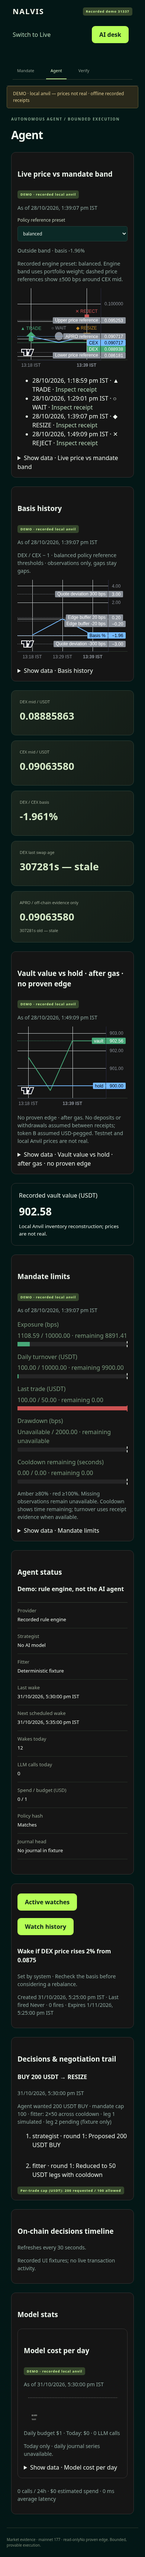
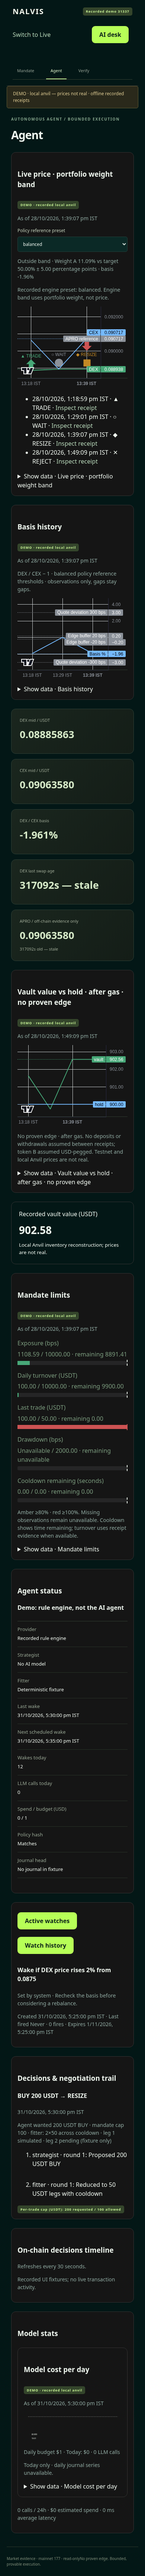
fix(charts): remove price bands derived from portfolio weight

Changed region(s): [[0.0923, 0.0311, 0.8615, 0.9649]]

diff --git a/apps/dashboard/test/charts.test.tsx b/apps/dashboard/test/charts.test.tsx
@@ -1,5 +1,5 @@
 import { beforeEach, afterEach, describe, expect, it, vi } from 'vitest';
-import { render, screen, waitFor } from '@testing-library/react';
+import { fireEvent, render, screen, waitFor } from '@testing-library/react';
 import PriceChart from '../src/components/charts/PriceChart.js';
 import BasisChart from '../src/components/charts/BasisChart.js';
 import VaultChart from '../src/components/charts/VaultChart.js';
@@ -8,12 +8,15 @@ import { LimitChart } from '../src/components/charts/LimitChart.js';
 import { CostChart } from '../src/components/charts/CostChart.js';
 import { demoEvidence, demoContext } from '../src/lib/demo.js';
 import { sources } from '../src/lib/chart-data.js';
+import { units } from '../../../packages/core/src/policy.js';
 import type { AgentFeed } from '../src/agent/feed-types.js';
 const api = vi.hoisted(() => ({
   setData: vi.fn(),
   update: vi.fn(),
   setMarkers: vi.fn(),
-  createPriceLine: vi.fn(() => ({})),
+  createPriceLine: vi.fn<(line: { title: string; price: number }) => object>(
+    () => ({}),
+  ),
   removePriceLine: vi.fn(),
   remove: vi.fn(),
   applyOptions: vi.fn(),
@@ -91,25 +94,108 @@ describe('honest accessible charts', () => {
         expect.objectContaining({ time: first.now + 30 }),
       ),
     );
-    expect(api.createPriceLine.mock.calls.length).toBeGreaterThanOrEqual(2);
-    const scaleOptions = api.applyOptions.mock.calls.find(
-      ([options]) => options.autoscaleInfoProvider,
-    )?.[0];
-    const range = scaleOptions.autoscaleInfoProvider(() => ({
-      priceRange: { minValue: 0.09, maxValue: 0.091 },
-    })).priceRange;
-    const mid =
-      (first.cex[0].bid +
-        first.cex[0].ask +
-        first.cex[1].bid +
-        first.cex[1].ask) /
-      4;
-    expect(range.minValue).toBeLessThanOrEqual(mid * 0.95);
-    expect(range.maxValue).toBeGreaterThanOrEqual(mid * 1.05);
+    expect(
+      api.createPriceLine.mock.calls.every(
+        ([line]) => line.title === 'APRO reference',
+      ),
+    ).toBe(true);
+    expect(api.createPriceLine).toHaveBeenCalledWith(
+      expect.objectContaining({
+        price: first.apro!.price,
+        title: 'APRO reference',
+      }),
+    );
 
     view.unmount();
     expect(api.remove).toHaveBeenCalledOnce();
   });
+  it.each([true, false])(
+    'uses weight-band text and never draws price bands (APRO present: %s)',
+    async (aproPresent) => {
+      const c = await demoContext();
+      const first = demoEvidence.find((e) => e.dexMid && e.cex.length === 2)!;
+      const point = {
+        ...first,
+        apro: aproPresent ? first.apro : undefined,
+        vault: {
+          balanceA: 0n,
+          balanceB: 100n,
+          decimalsA: first.decimalsA,
+          decimalsB: first.decimalsB,
+          mandate: c.mandate,
+        },
+      };
+      const view = render(<PriceChart points={[point]} demo />);
+      await waitFor(() => expect(api.setData).toHaveBeenCalled());
+      expect(
+        screen.getByText(
+          /Outside band · Weight A 0.00% vs target 50.00% ± 5.00 percentage points/,
+        ),
+      ).toBeTruthy();
+      expect(screen.getByRole('img').getAttribute('aria-label')).toContain(
+        'Weight A 0.00% vs target 50.00% ± 5.00 percentage points',
+      );
+      expect(
+        screen.getAllByRole('columnheader').map((h) => h.textContent),
+      ).toEqual(['Time (IST)', 'DEX / USDT', 'CEX / USDT', 'Basis %']);
+      fireEvent.change(screen.getByLabelText('Policy reference preset'), {
+        target: { value: 'conservative' },
+      });
+      expect(
+        screen.getByText(
+          /Outside band · Weight A 0.00% vs target 40.00% ± 7.50 percentage points/,
+        ),
+      ).toBeTruthy();
+      fireEvent.change(screen.getByLabelText('Policy reference preset'), {
+        target: { value: 'balanced' },
+      });
+      view.rerender(
+        <PriceChart
+          points={[
+            {
+              ...point,
+              vault: {
+                ...point.vault,
+                balanceA: 10n ** BigInt(first.decimalsA),
+                balanceB: units(first.dexMid!, first.decimalsB),
+              },
+            },
+          ]}
+          demo
+        />,
+      );
+      expect(
+        screen.getByText(
+          /Inside band · Weight A 50.00% vs target 50.00% ± 5.00 percentage points/,
+        ),
+      ).toBeTruthy();
+      view.rerender(
+        <PriceChart
+          points={[
+            { ...point, vault: { ...point.vault, balanceA: 0n, balanceB: 0n } },
+          ]}
+          demo
+        />,
+      );
+      expect(
+        screen.getByText(
+          /Engine band state unavailable · Weight A unavailable/,
+        ),
+      ).toBeTruthy();
+      if (aproPresent)
+        expect(
+          api.createPriceLine.mock.calls.every(
+            ([line]) => line.title === 'APRO reference',
+          ),
+        ).toBe(true);
+      else expect(api.createPriceLine).not.toHaveBeenCalled();
+      expect(
+        screen.queryByText(
+          /Lower price reference|Upper price reference|around CEX mid/,
+        ),
+      ).toBeNull();
+    },
+  );
   it('preserves a missing interval when observations arrive after the recorded seed', () => {
     const view = render(
       <TimeSeries

diff --git a/apps/dashboard/src/components/charts/PriceChart.tsx b/apps/dashboard/src/components/charts/PriceChart.tsx
@@ -84,30 +84,19 @@ export default function PriceChart({
         ? 'Inside band'
         : 'Outside band';
   const markers = decisionMarkers(actions);
-  const lines = latest
-    ? [
-        {
-          value: latest.cex * (1 - preset.bandBps / 10000),
-          title: 'Lower price reference',
-        },
-        {
-          value: latest.cex * (1 + preset.bandBps / 10000),
-          title: 'Upper price reference',
-        },
-        ...(evidence?.apro
-          ? [{ value: evidence.apro.price, title: 'APRO reference' }]
-          : []),
-      ]
+  const lines = evidence?.apro
+    ? [{ value: evidence.apro.price, title: 'APRO reference' }]
     : [];
+  const weightBand = `Weight A ${weight === undefined ? 'unavailable' : `${(weight / 100).toFixed(2)}%`} vs target ${(preset.targetWeightA * 100).toFixed(2)}% ± ${(preset.bandBps / 100).toFixed(2)} percentage points`;
   const prices = rows.flatMap((r) => [r.dex, r.cex]);
   return (
     <ChartFrame
-      title="Live price vs mandate band"
+      title="Live price · portfolio weight band"
       source={
         demo ? sources.demo : live.length ? sources.market : sources.recorded
       }
       at={latest?.time}
-      summary={`DEX ${latest?.dex ?? 'unavailable'}, CEX ${latest?.cex ?? 'unavailable'} USDT. Min ${prices.length ? Math.min(...prices) : 'unavailable'}, max ${prices.length ? Math.max(...prices) : 'unavailable'}. ${state}. Basis ${latest?.basis.toFixed(2)}%.`}
+      summary={`DEX ${latest?.dex ?? 'unavailable'}, CEX ${latest?.cex ?? 'unavailable'} USDT. Min ${prices.length ? Math.min(...prices) : 'unavailable'}, max ${prices.length ? Math.max(...prices) : 'unavailable'}. ${state}. ${weightBand}. Basis ${latest?.basis.toFixed(2)}%.`}
       headers={['Time (IST)', 'DEX / USDT', 'CEX / USDT', 'Basis %']}
       rows={rows.map((r) => [displayTime(r.time), r.dex, r.cex, r.basis])}
     >
@@ -133,14 +122,13 @@ export default function PriceChart({
         </select>
       </label>
       <p>
-        {state} · basis {latest?.basis.toFixed(2) ?? '—'}%
+        {state} · {weightBand} · basis {latest?.basis.toFixed(2) ?? '—'}%
       </p>
       <p className="muted">
         {recordedState?.success
           ? `Recorded engine preset: ${recordedState.data.state.preset}.`
           : 'Active keeper preset unavailable.'}{' '}
-        Engine band uses portfolio weight; dashed price references show ±
-        {preset.bandBps} bps around CEX mid.
+        Engine band uses portfolio weight, not price.
       </p>
       <Suspense fallback={<p>Loading price chart…</p>}>
         <TimeSeries

diff --git a/docs/T13A-VALIDATION.md b/docs/T13A-VALIDATION.md
@@ -2,13 +2,17 @@
 
 Base: `8c4632f` (`main`, T12B merged; T13 was not merged when this branch started).
 
+## PR #14 review fix
+
+Removed the misleading CEX mid ± `bandBps` price lines from C1. The engine weight rule is unchanged. Updated regression tests, the accessible summary, chart/data-table title, and the four agent screenshots (live/demo at 1440 px and 390 px). Other charts are unchanged.
+
 ## Checks
 
 - `pnpm lint`: PASS (workspace ESLint and root TypeScript project check).
 - `pnpm -r build`: PASS.
-- `pnpm test`: PASS: 414 tests; four pre-existing integration skips (no anvil/fork setup).
-- New dashboard chart tests: 14 passing; keeper feed projection: one passing.
-- Existing test files and expectations are unchanged. No snapshot/class updates.
+- `pnpm test`: PASS: 416 tests; four pre-existing integration skips (no anvil/fork setup).
+- New dashboard chart tests: 16 passing; keeper feed projection: one passing.
+- Original pre-chart test files and expectations remain unchanged; C1 chart regressions were updated for this review fix. No snapshot/class updates.
 - `forge test`: not run; forge/anvil binaries are unavailable. Contracts were not changed.
 - Charts use public reads and recorded fixtures. No application API keys, signing, transactions, or mainnet writes.
 
@@ -16,8 +20,8 @@ Base: `8c4632f` (`main`, T12B merged; T13 was not merged when this branch starte
 
 | Measurement | Before | After | Increase | Limit |
 | --- | ---: | ---: | ---: | ---: |
-| Initial landing entry and its modulepreloads | 415.79 | 423.29 | 7.50 | 15.00 |
-| All JavaScript chunks | 434.98 | 492.95 | 57.97 | 60.00 |
+| Initial landing entry and its modulepreloads | 415.79 | 423.28 | 7.49 | 15.00 |
+| All JavaScript chunks | 434.98 | 492.92 | 57.94 | 60.00 |
 
 The canvas library remains a React.lazy chunk. Shared chart views reduce duplicate chunk overhead. The frozen mainnet history is one validated, cached same-origin JSON asset, not JavaScript; its additional gzip size is 16.26 kB and is excluded from the JavaScript figures above. No new market-data host is used.
 
@@ -58,26 +62,26 @@ dist/receipts/demo/31337/2-0xccbf1e23e1a1568ee2feec8086705fe7252d50f38c411deb5a9
 dist/receipts/31337/0-0xc139451c312735428d725ce3c513c6b0aafaff870e152406968a8cd316d9fca9.json         5.41 kB │ gzip:   1.67 kB
 dist/assets/market_history-fH4T4A_u.json                                                             90.34 kB │ gzip:  16.35 kB
 dist/assets/index-CzPeZXa7.css                                                                       39.88 kB │ gzip:   9.70 kB
-dist/assets/LandingPreview-CjsCqhs2.js                                                                2.71 kB │ gzip:   1.10 kB
-dist/assets/Receipts-BAIGwKTJ.js                                                                      3.70 kB │ gzip:   1.47 kB
-dist/assets/Mandate-DLnDhPG4.js                                                                       4.58 kB │ gzip:   1.99 kB
-dist/assets/Desk-R1_OPuu7.js                                                                          6.40 kB │ gzip:   2.81 kB
-dist/assets/Console-lR1R79Zk.js                                                                       9.09 kB │ gzip:   3.03 kB
+dist/assets/LandingPreview-B2vGFkYz.js                                                                2.71 kB │ gzip:   1.09 kB
+dist/assets/Receipts-CF5jLw8Y.js                                                                      3.70 kB │ gzip:   1.47 kB
+dist/assets/Mandate-C1yhOOxr.js                                                                       4.58 kB │ gzip:   1.99 kB
+dist/assets/Desk-VEkKYUq5.js                                                                          6.40 kB │ gzip:   2.81 kB
+dist/assets/Console-BkiBXCXB.js                                                                       9.09 kB │ gzip:   3.03 kB
 dist/assets/ledger-streams-U9X4ypUY.js                                                               27.77 kB │ gzip:   8.48 kB
 dist/assets/ledger-transport-QmNX_acP.js                                                             28.78 kB │ gzip:   8.71 kB
-dist/assets/Verify-Cs4QPdp6.js                                                                       30.18 kB │ gzip:   6.03 kB
-dist/assets/TimeSeriesChart-BJ_y3nfY.js                                                             166.22 kB │ gzip:  53.23 kB
+dist/assets/Verify-C7PPbWaq.js                                                                       30.18 kB │ gzip:   6.02 kB
+dist/assets/TimeSeriesChart-B9NIJEDh.js                                                             166.22 kB │ gzip:  53.23 kB
 dist/assets/ledger-device-BE-YRHtZ.js                                                               257.32 kB │ gzip:  69.27 kB
-dist/assets/index-DG12BQuS.js                                                                       329.72 kB │ gzip:  96.18 kB
+dist/assets/index-KEEMUt7Y.js                                                                       329.72 kB │ gzip:  96.18 kB
 dist/assets/ledger-ethereum-CKAlsWBU.js                                                             394.87 kB │ gzip: 102.26 kB
-dist/assets/chart-views-Iep3TEVg.js                                                                 445.86 kB │ gzip: 138.39 kB
+dist/assets/chart-views-Dovtr2Ew.js                                                                 445.86 kB │ gzip: 138.38 kB
 ```
 
 ## Data and fallbacks
 
 | Chart | Data source | Fallback | Test file |
 | --- | --- | --- | --- |
-| C1 price / mandate reference | Existing Evidence history, both CEX mids; feed/on-chain receipt markers | Last 48 h frozen mainnet history; explicit unavailability | `apps/dashboard/test/chart-data.test.ts`, `charts.test.tsx` |
+| C1 price / portfolio weight band | Existing Evidence history, both CEX mids; feed/on-chain receipt markers | Last 48 h frozen mainnet history; explicit unavailability | `apps/dashboard/test/chart-data.test.ts`, `charts.test.tsx` |
 | C2 basis | All 720 frozen hourly mainnet rows + existing session observations | RECORDED, never an implicit demo | Same dashboard tests |
 | C3 limits | Evidence vault balances, mandate caps, pinned public risk reads, existing receipts | Missing observations unavailable; undeployed 133 notice; recorded demo inputs | Same dashboard tests |
 | C4 model budget | Feed state; optional seven IST days via `withSpendByDay(feed, journal.entries, now)` | Today-only bar; disconnected live feed visibly unavailable | Same dashboard tests; `packages/keeper/test/feed.test.ts` |
@@ -89,7 +93,7 @@ The final production routes were checked at 1440 px and 390 px. C1 canvas is vis
 
 ## Interpretation and unverified checks
 
-`bandBps` is a portfolio-weight rebalance band in the actual engine. The chart labels the dashed CEX price bands as reference levels, and its Inside/Outside chip uses the engine weight comparison. A live keeper preset is not exposed by the current feed hook, so the selector is explicitly a policy reference; recorded fixtures identify their recorded preset.
+`bandBps` is a portfolio-weight rebalance band in the actual engine. C1 draws no CEX-centered price-band lines. Its Inside/Outside chip still uses the engine weight comparison; adjacent text and the accessible summary show current weight A versus target ± band in percentage points. The APRO price reference remains when present. The data table contains observed prices and basis only, with no price-band columns. A live keeper preset is not exposed by the current feed hook, so the selector is explicitly a policy reference; recorded fixtures identify their recorded preset.
 
 The repository's live feed hook currently returns no live keeper feed. The cost chart therefore renders a disconnected state in live mode, and the read-only keeper feed adapter supplies `spendByDay` when a real feed is connected. No provider costs or actions are fabricated.
 
